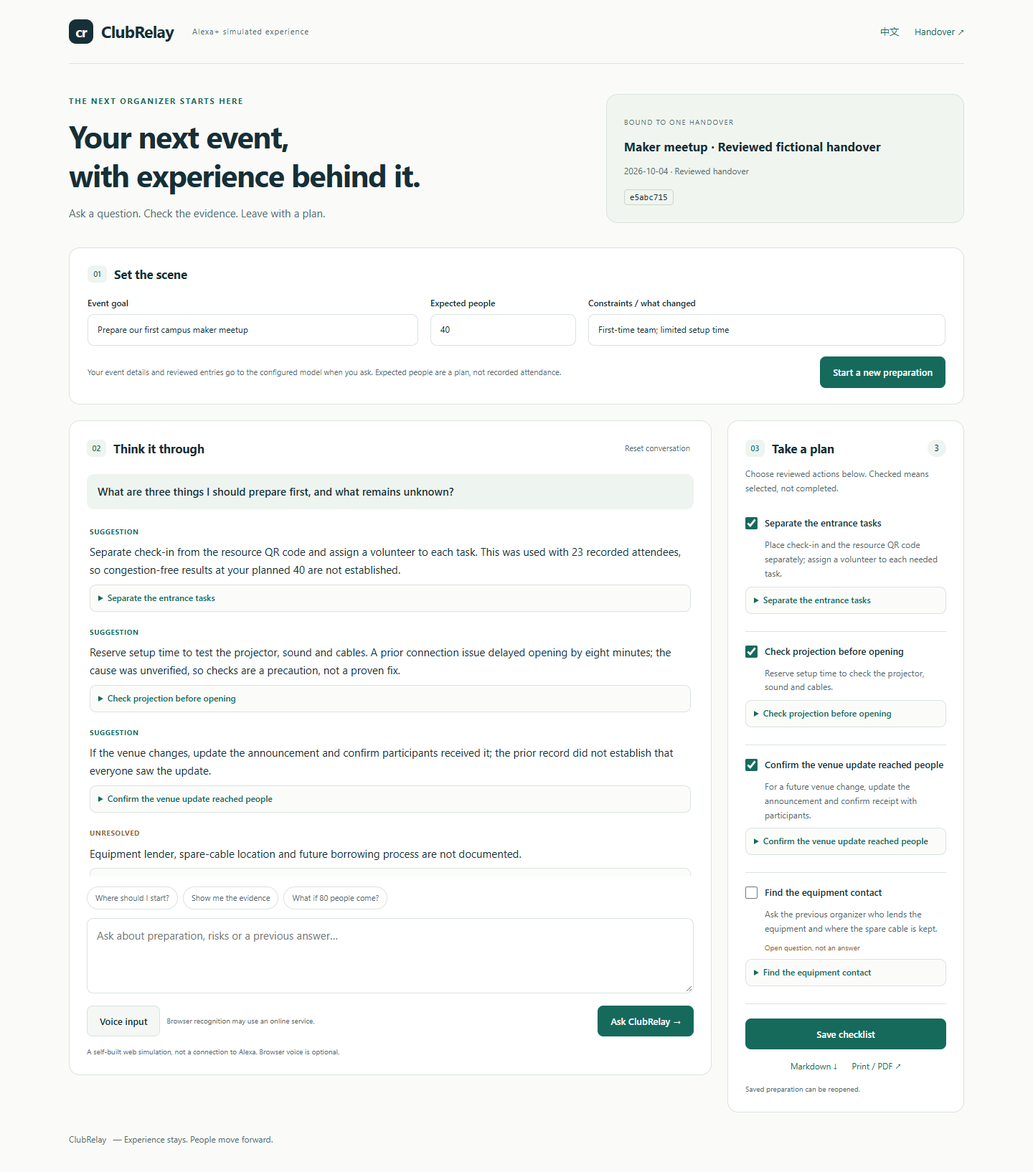
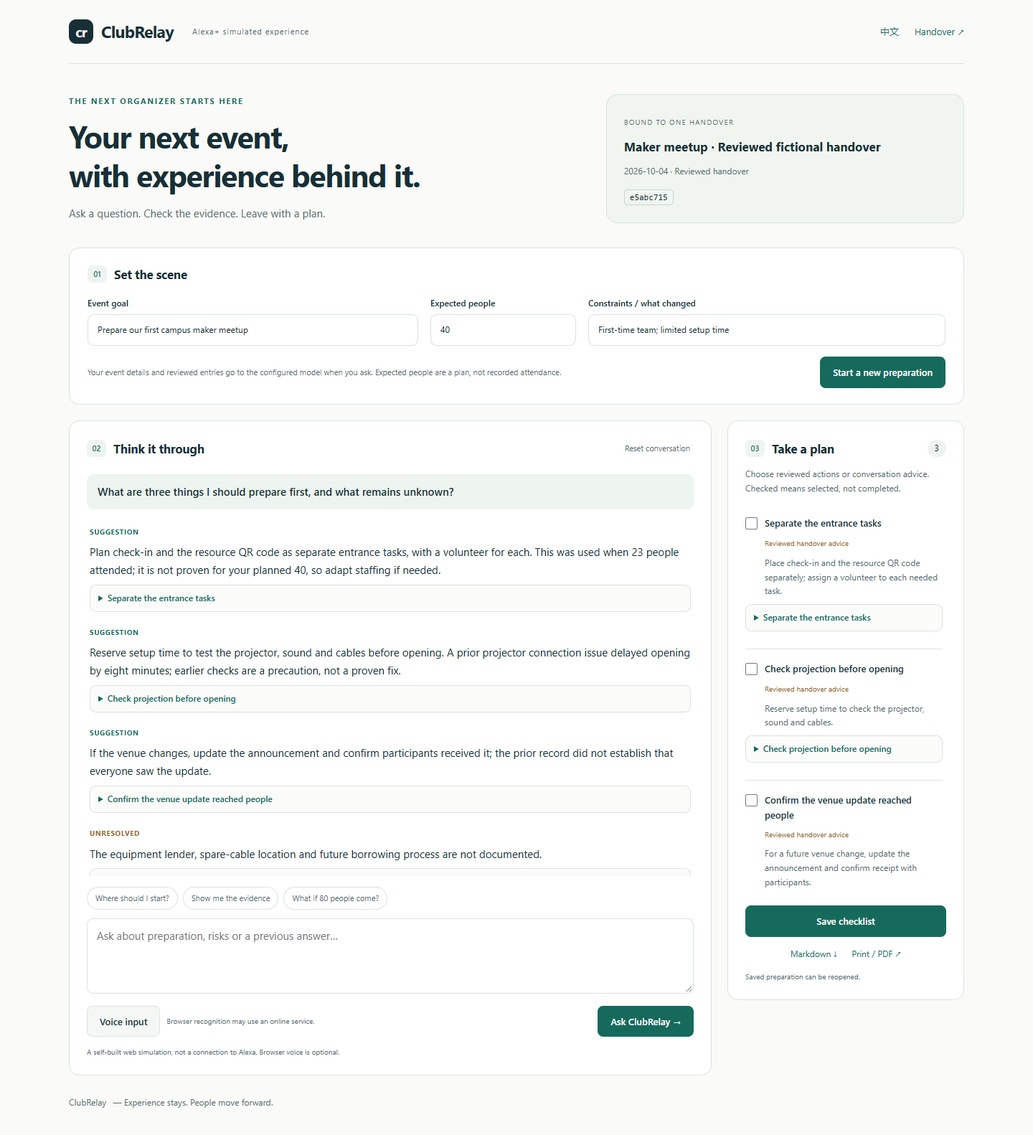
Persist generated advice in preparation checklists and refine long-list layout

diff --git a/operations/static/operations/briefing.css b/operations/static/operations/briefing.css
@@ -1,5 +1,7 @@
 /* 活动准备页独立样式；不覆盖运营台。 / Isolated preparation styles; do not override the operations workspace. */
 :root{--ink:#172f36;--muted:#536b70;--line:#d9e3df;--accent:#166a5c;--paper:#fafbf8;--card:#fff;--soft:#eef4ef;font-family:"Segoe UI","Microsoft YaHei",sans-serif;color:var(--ink);background:var(--paper);font-synthesis:none}*{box-sizing:border-box}body{margin:0;font-size:15px;line-height:1.65}button,input,textarea{font:inherit}button,a,input,textarea{touch-action:manipulation}button,a{transition:background .18s,color .18s,box-shadow .18s}button{cursor:pointer}a{color:var(--accent);text-decoration:none}a:hover{text-decoration:underline}button:disabled{opacity:.55;cursor:default}input,textarea{width:100%;border:1px solid var(--line);border-radius:9px;background:#fff;padding:11px 13px;color:var(--ink)}textarea{resize:vertical;min-height:105px}input:focus,textarea:focus{outline:2px solid #509c8b;outline-offset:2px}button:focus-visible,a:focus-visible,summary:focus-visible{outline:3px solid #66a996;outline-offset:4px}.shell{max-width:1344px;margin:auto;padding:0 48px}.masthead{display:flex;align-items:center;gap:26px;padding:27px 0;border-bottom:1px solid var(--line)}.brand{font:700 23px/1.2 "Segoe UI",sans-serif;letter-spacing:-.7px;color:var(--ink);display:flex;align-items:center;gap:11px}.brand-mark{font-size:19px;background:var(--ink);color:white;width:34px;height:34px;border-radius:10px;display:grid;place-items:center}.platform{font-size:11px;letter-spacing:.08em;color:var(--muted)}nav{margin-left:auto;display:flex;gap:22px;font-size:13px}.intro{display:grid;grid-template-columns:1.4fr 1fr;gap:50px;align-items:center;padding:42px 0 34px}.eyebrow{font-size:11px;letter-spacing:.16em;font-weight:700;color:var(--accent);margin:0 0 13px}h1{font-size:43px;line-height:1.25;font-weight:650;letter-spacing:-1.4px;margin:0}html[lang=zh-CN] h1{font-size:38px;letter-spacing:0;line-height:1.4}.lede{color:var(--muted);margin:15px 0 0}.version-card{border:1px solid var(--line);border-radius:16px;padding:24px;background:#f0f5ef}.version-card strong{display:block;font-size:17px;line-height:1.55;margin-top:10px}.small-label{font-size:10px;letter-spacing:.12em;color:var(--muted)}.version-card p{font-size:12px;color:var(--muted)}.version-id{font:12px Consolas,monospace;border:1px solid #c8d7cc;padding:3px 7px;border-radius:5px}.context-panel,.conversation-panel,.checklist-panel{background:var(--card);border:1px solid var(--line);border-radius:15px}.context-panel{padding:22px 25px;margin-bottom:22px}.context-panel>div,.panel-heading>div{display:flex;gap:10px;align-items:center}.step{font:600 11px/24px "Segoe UI",sans-serif;color:var(--accent);background:var(--soft);border-radius:7px;width:27px;text-align:center}h2{font-size:17px;margin:0;letter-spacing:-.25px}.context-fields{display:grid;grid-template-columns:1.25fr .55fr 1.35fr;gap:17px;margin-top:17px}label{display:block;font-size:12px;font-weight:600}label input{margin-top:6px;font-weight:400}.context-footer{display:flex;gap:20px;align-items:center;justify-content:space-between;margin-top:15px}.context-footer p{font-size:11px;line-height:1.7;color:var(--muted);margin:0;max-width:780px}.primary,.secondary{padding:10px 17px;border-radius:8px;font-weight:600;font-size:13px;border:1px solid transparent;white-space:nowrap}.primary{color:white;background:var(--accent)}.primary:hover{background:#105448}.secondary{background:#f4f7f4;border-color:var(--line);color:var(--ink)}.secondary:hover{background:#e6eeea}.text-button{font-size:11px;border:0;background:none;color:var(--muted);padding:5px}.workspace{display:grid;grid-template-columns:minmax(0,1fr) 330px;gap:22px;align-items:start}.conversation-panel{padding:24px}.panel-heading{display:flex;justify-content:space-between;align-items:center;gap:12px}.conversation{min-height:190px;max-height:560px;overflow:auto;margin:22px 0 15px;scrollbar-width:thin;scroll-padding:12px}.empty{border-left:3px solid #c5d9cd;padding:15px 21px;margin-top:30px;color:var(--muted)}.empty strong{color:var(--ink);display:block;font-size:18px;margin-bottom:6px}.turn{margin-bottom:27px;padding-bottom:21px;border-bottom:1px solid var(--line)}.question{font-weight:600;background:var(--soft);border-radius:10px;padding:12px 15px;margin:0 0 17px}.answer{padding:0 4px;margin:14px 0}.answer p{margin:6px 0;white-space:pre-wrap;overflow-wrap:anywhere}.kind{font-size:10px;font-weight:700;letter-spacing:.06em;color:var(--accent)}.gap .kind{color:#936428}.evidence{margin:8px 0;border:1px solid var(--line);border-radius:9px;padding:8px 11px;font-size:12px;background:#fbfcfa}.evidence summary{cursor:pointer;color:var(--accent);font-weight:600}.evidence p{color:var(--muted);font-size:12px}.evidence blockquote{margin:9px 0;border-left:2px solid #9cbcab;padding-left:11px;white-space:pre-wrap;overflow-wrap:anywhere}.unknowns{padding:12px 16px;background:#fbf6eb;border-radius:9px;font-size:12px}.unknowns ul{padding-left:18px;margin:6px 0}.prompts{display:flex;flex-wrap:wrap;gap:7px;margin-bottom:12px}.prompts button{border:1px solid var(--line);background:white;font-size:11px;border-radius:30px;padding:6px 11px;color:var(--muted)}.prompts button:hover{background:var(--soft)}.composer-tools{display:flex;align-items:center;gap:9px;margin-top:10px}.composer-tools .primary{margin-left:auto}.composer-tools span{font-size:10px}.muted{font-size:12px;color:var(--muted)}.fineprint{font-size:10px;line-height:1.6;color:var(--muted);margin:13px 0 0}.checklist-panel{padding:24px}.count{font-variant-numeric:tabular-nums;background:var(--soft);border-radius:20px;padding:2px 10px;font-size:12px}.check-item{padding:16px 0;border-bottom:1px solid var(--line)}.check-item>label{display:flex;gap:10px;align-items:flex-start;cursor:pointer;font-size:13px}.check-item input{width:17px;height:17px;flex-shrink:0;margin:3px 0;accent-color:var(--accent)}.check-item p{font-size:12px;color:var(--muted);margin:9px 0 0 27px;white-space:pre-wrap;overflow-wrap:anywhere}.check-item small{display:block;font-size:10px;color:#936428;margin:8px 0 0 27px}.wide{width:100%;margin-top:20px}.exports{display:flex;gap:20px;justify-content:center;margin-top:14px;font-size:12px}.exports [aria-disabled=true]{color:var(--muted);pointer-events:none}.notice{border:1px solid #ccab69;background:#fff9ea;padding:12px 16px;border-radius:9px;font-size:13px;margin-bottom:20px;overflow-wrap:anywhere}[hidden]{display:none!important}footer{padding:28px 0 35px;font-size:12px;color:var(--muted)}footer span{margin-left:6px}.sr-only{position:absolute;width:1px;height:1px;overflow:hidden;clip:rect(0,0,0,0)}
+/* 长对话的建议在清单内滚动，保存操作保持可见。 / Scroll long advice lists within the panel to keep save controls visible. */
+#checklist{max-height:540px;overflow:auto;scrollbar-width:thin;scroll-padding:12px;padding-right:5px}
 /* SpotlightCard 坐标算法的原生适配，来源及许可见第三方声明。 / Native SpotlightCard coordinate adaptation; see third-party notice. */
 .spotlight{position:relative;overflow:hidden;--mouse-x:50%;--mouse-y:50%}.spotlight:before{content:"";position:absolute;inset:0;pointer-events:none;background:radial-gradient(circle at var(--mouse-x) var(--mouse-y),rgba(36,131,101,.16),transparent 80%);opacity:0;transition:opacity .3s}.spotlight:hover:before,.spotlight:focus-within:before{opacity:.65}.spotlight>*{position:relative}
 @media(max-width:1000px){.shell{padding:0 25px}.workspace{grid-template-columns:minmax(0,1fr) 285px}.intro{gap:25px}h1{font-size:35px}.context-fields{grid-template-columns:1fr 120px}.context-fields label:last-child{grid-column:1/-1}.platform{display:none}}

diff --git a/templates/ops/briefing.html b/templates/ops/briefing.html
@@ -8,5 +8,5 @@
 <div id="conversation" class="conversation" aria-live="polite"></div>
 <div class="prompts"><button type="button" data-prompt="{% if english %}What are three things I should prepare first, and what remains unknown?{% else %}我最应该先准备哪三件事？还有哪些信息不知道？{% endif %}">{% if english %}Where should I start?{% else %}先准备哪三件事？{% endif %}</button><button type="button" data-prompt="{% if english %}Why do you suggest that? Show the supporting evidence.{% else %}为什么这么建议？依据在哪里？{% endif %}">{% if english %}Show me the evidence{% else %}这些建议的依据呢？{% endif %}</button><button type="button" data-prompt="{% if english %}If we expect 80 people this time, what changes and what cannot be inferred?{% else %}如果这次预计80人，哪些做法需要调整？哪些不能直接推断？{% endif %}">{% if english %}What if 80 people come?{% else %}如果预计80人呢？{% endif %}</button></div>
 <form id="question-form"><label class="sr-only" for="question">{% if english %}Your question{% else %}你的问题{% endif %}</label><textarea id="question" rows="3" maxlength="1000" required placeholder="{% if english %}Ask about preparation, risks or a previous answer…{% else %}问准备做法、风险，或继续追问上一条回答……{% endif %}"></textarea><div class="composer-tools"><button type="button" id="microphone" class="secondary">{% if english %}Voice input{% else %}语音输入{% endif %}</button><span id="speech-status" class="muted" role="status"></span><button type="submit" id="send" class="primary">{% if english %}Ask ClubRelay{% else %}问问 ClubRelay{% endif %} →</button></div></form><p class="fineprint">{% if english %}A self-built web simulation, not a connection to Alexa. Browser voice is optional.{% else %}自建网页模拟体验，尚未接入真实 Alexa。语音由浏览器提供。{% endif %}</p></section>
-<aside class="checklist-panel"><div class="panel-heading"><div><span class="step">03</span><h2>{% if english %}Take a plan{% else %}带走准备清单{% endif %}</h2></div><span id="selection-count" class="count">0</span></div><p class="muted">{% if english %}Choose reviewed actions below. Checked means selected, not completed.{% else %}从已审阅建议中选择。勾选表示纳入准备，不代表任务完成。{% endif %}</p><div id="checklist"></div><button type="button" class="primary wide" id="save-selection">{% if english %}Save checklist{% else %}保存清单{% endif %}</button><div class="exports"><a id="export-md" aria-disabled="true">Markdown ↓</a><a id="export-print" aria-disabled="true" target="_blank" rel="noopener">{% if english %}Print / PDF ↗{% else %}打印 / PDF ↗{% endif %}</a></div><p id="saved-status" class="fineprint" role="status"></p></aside></div>
+<aside class="checklist-panel"><div class="panel-heading"><div><span class="step">03</span><h2>{% if english %}Take a plan{% else %}带走准备清单{% endif %}</h2></div><span id="selection-count" class="count">0</span></div><p class="muted">{% if english %}Choose reviewed actions or conversation advice. Checked means selected, not completed.{% else %}选择交接建议或本次对话建议。勾选表示纳入准备，不代表任务完成。{% endif %}</p><div id="checklist"></div><button type="button" class="primary wide" id="save-selection">{% if english %}Save checklist{% else %}保存清单{% endif %}</button><div class="exports"><a id="export-md" aria-disabled="true">Markdown ↓</a><a id="export-print" aria-disabled="true" target="_blank" rel="noopener">{% if english %}Print / PDF ↗{% else %}打印 / PDF ↗{% endif %}</a></div><p id="saved-status" class="fineprint" role="status"></p></aside></div>
 </main><footer>ClubRelay <span>— {% if english %}Experience stays. People move forward.{% else %}经验留下，下一任继续。{% endif %}</span></footer></div>{{ state|json_script:"briefing-state" }}<script src="{% static 'operations/briefing.js' %}" defer></script></body></html>

diff --git a/operations/static/operations/briefing.js b/operations/static/operations/briefing.js
@@ -83,10 +83,10 @@
     }
     conversation.scrollTop = conversation.scrollHeight;
     const checklist=$('checklist'); checklist.replaceChildren();
-    for (const entry of state.entries) {
+    for (const entry of state.options) {
       const card=node('div','check-item'), label=node('label'), checkbox=node('input'); checkbox.type='checkbox'; checkbox.value=entry.id; checkbox.checked=Boolean(session?.selected.includes(entry.id));
       checkbox.addEventListener('change',()=>{dirty=true; updateCount(); $('saved-status').textContent=t('有未保存的选择。','Unsaved selection.');buttons();});
-      label.append(checkbox,node('span','',entry.title)); card.append(label,node('p','',entry.suggestion));
+      label.append(checkbox,node('span','',entry.title)); card.append(label,node('small','',entry.origin==='conversation'?t('本次对话建议','Advice from this conversation'):t('已审核交接建议','Reviewed handover advice')),node('p','',entry.suggestion));
       if (entry.section==='question') card.append(node('small','',t('待确认，尚无答案','Open question, not an answer')));
       card.append(evidence(entry)); checklist.append(card);
     }

diff --git a/operations/briefings.py b/operations/briefings.py
@@ -130,6 +130,30 @@ def ask(user, pack_id, session_id, question, request_id, revision):
     return session
 
 
+def checklist_options(entries, session):
+    """从已保存回答重建建议，客户端只能提交标识。 / Rebuild saved suggestions; clients may submit identifiers only."""
+    options = [{**entry, "origin": "handover"} for entry in entries]
+    if not session or not entries:
+        return options
+    by_id = {entry["id"]: entry for entry in entries}
+    en = session.context["language"] == "en"
+    for turn in session.turns:
+        for index, answer in enumerate((turn.get("response") or {}).get("answers", [])):
+            if answer["kind"] != "suggestion" or not answer["entry_ids"] or any(key not in by_id for key in answer["entry_ids"]):
+                continue
+            evidence = []
+            for key in answer["entry_ids"]:
+                for ref in by_id[key]["evidence"]:
+                    if ref not in evidence:
+                        evidence.append(ref)
+            options.append({"id": f"answer:{turn['request_id']}:{index}", "origin": "conversation", "section": "practice",
+                            "title": answer["text"][:90], "suggestion": answer["text"],
+                            "record": "Generated advice, not a recorded fact." if en else "本次生成的建议，不是材料事实。",
+                            "conditions": "Check applicability to the saved event context." if en else "执行前核对是否适用于已保存的活动条件。",
+                            "evidence": evidence, "has_evidence": bool(evidence)})
+    return options
+
+
 def update(user, pack_id, session_id, revision, selected=None, reset=False):
     with CONFIG_LOCK, transaction.atomic():
         session = owned(user, pack_id, session_id)
@@ -137,9 +161,9 @@ def update(user, pack_id, session_id, revision, selected=None, reset=False):
         if reset:
             _claim(session, revision, turns=[], selected=[], pending=None, pending_at=None)
         else:
-            valid_ids = {e["id"] for e in entries}
+            valid_ids = {e["id"] for e in checklist_options(entries, session)}
             if not isinstance(selected, list) or len(selected) > len(valid_ids) or any(not isinstance(v, str) or v not in valid_ids for v in selected) or len(selected) != len(set(selected)):
-                raise ValidationError("清单条目不属于此交接版本。 / Checklist item is outside this handover.")
+                raise ValidationError("清单条目不属于此次准备。 / Checklist item is outside this preparation.")
             if session.pending:
                 raise Conflict("请等待当前回答完成再保存。 / Wait for the current answer before saving.")
             _claim(session, revision, selected=selected)
@@ -153,7 +177,7 @@ def public_state(user, pack_id, session):
     except ValidationError as exc:
         pack, entries = HandoffPack.objects.get(pk=pack_id), []
         error = " / ".join(exc.messages)
-    state = {"pack_id": str(pack.pk), "title": pack.title, "entries": entries, "error": error, "session": None}
+    state = {"pack_id": str(pack.pk), "title": pack.title, "entries": entries, "options": checklist_options(entries, session), "error": error, "session": None}
     if session:
         state["session"] = {"id": str(session.pk), "context": session.context, "turns": session.turns, "selected": session.selected, "revision": session.revision, "pending": bool(session.pending)}
     return state
@@ -165,7 +189,7 @@ def export_context(user, pack_id, session_id):
     if not session.selected:
         raise ValidationError("请先选择并保存准备事项。 / Select and save preparation items first.")
     gaps = list(dict.fromkeys([e["conditions"] or e["title"] for e in entries if e["section"] == "question"] + [g for t in session.turns if t.get("response") for g in t["response"]["unknowns"]]))
-    return {"context": session.context, "version": str(pack.pk), "entries": [e for e in entries if e["id"] in session.selected], "gaps": gaps, "english": session.context["language"] == "en"}
+    return {"context": session.context, "version": str(pack.pk), "entries": [e for e in checklist_options(entries, session) if e["id"] in session.selected], "gaps": gaps, "english": session.context["language"] == "en"}
 
 
 def export(user, pack_id, session_id):

diff --git a/operations/test_briefings.py b/operations/test_briefings.py
@@ -193,3 +193,28 @@ class BriefingTests(TestCase):
     def test_empty_checklist_cannot_be_exported(self):
         session=self.session()
         with self.assertRaises(ValidationError):briefings.export(self.manager,self.pack.pk,session.pk)
+
+    def test_generated_suggestion_survives_reload_and_both_exports(self):
+        session=self.session()
+        with patch("operations.briefings.analyze_sources",return_value=self.answer()):session=self.ask(session)
+        state=briefings.public_state(self.manager,self.pack.pk,session)
+        advice=next(e for e in state["options"] if e["origin"]=="conversation")
+        session=briefings.update(self.manager,self.pack.pk,session.pk,session.revision,selected=[advice["id"]])
+        session.refresh_from_db()
+        self.assertEqual(session.selected,[advice["id"]])
+        exported=briefings.export(self.manager,self.pack.pk,session.pk)
+        self.assertIn("applicability still needs review",exported)
+        self.assertIn(advice["evidence"][0]["quote"],exported)
+        printed=self.client.get(reverse("briefing_export",args=[self.pack.pk,session.pk,"print"]))
+        self.assertContains(printed,self.answer()["answers"][0]["text"])
+        self.a.text+=" Changed";self.a.save()
+        with self.assertRaises(ValidationError):briefings.export(self.manager,self.pack.pk,session.pk)
+
+    def test_foreign_or_reset_conversation_suggestion_cannot_be_selected(self):
+        session=self.session()
+        with patch("operations.briefings.analyze_sources",return_value=self.answer()):session=self.ask(session)
+        advice=briefings.checklist_options(briefings.guard(self.manager,self.pack.pk)[3],session)[-1]
+        other=briefings.create(self.manager,self.pack.pk,session.context,uuid.uuid4())
+        with self.assertRaises(ValidationError):briefings.update(self.manager,self.pack.pk,other.pk,other.revision,selected=[advice["id"]])
+        session=briefings.update(self.manager,self.pack.pk,session.pk,session.revision,reset=True)
+        with self.assertRaises(ValidationError):briefings.update(self.manager,self.pack.pk,session.pk,session.revision,selected=[advice["id"]])

diff --git a/docs/sample-preparation.md b/docs/sample-preparation.md
@@ -9,11 +9,11 @@ Handover version: e5abc715-cdf8-5514-983b-c88cd1a31672
 
 Selected for preparation, not completed. / 纳入准备，不代表任务完成。
 
-## Separate the entrance tasks
+## Plan check\-in and the resource QR code as separate entrance tasks, with a volunteer for ea
 
-Place check\-in and the resource QR code separately; assign a volunteer to each needed task\.
+Plan check\-in and the resource QR code as separate entrance tasks, with a volunteer for each\. This was used when 23 people attended; it is not proven for your planned 40, so adapt staffing if needed\.
 
-Conditions / 适用条件：No obvious congestion was recorded for 23 attendees\. The same setup is not proven for 80\.
+Conditions / 适用条件：Check applicability to the saved event context\.
 
 Source / 来源：01\-plan\.md
 > The plan expected 40 attendees in room A101\.
@@ -23,22 +23,22 @@ Source / 来源：03\-retrospective\.md
 
 Source / 来源：03\-retrospective\.md
 > Volunteers separated check\-in from the resource QR code; no obvious entrance congestion was recorded\.
-## Check projection before opening
+## Reserve setup time to test the projector, sound and cables before opening\. A prior project
 
-Reserve setup time to check the projector, sound and cables\.
+Reserve setup time to test the projector, sound and cables before opening\. A prior projector connection issue delayed opening by eight minutes; earlier checks are a precaution, not a proven fix\.
 
-Conditions / 适用条件：The fault cause was not verified; checking earlier is a suggestion, not a proven fix\.
+Conditions / 适用条件：Check applicability to the saved event context\.
 
 Source / 来源：03\-retrospective\.md
 > A projector connection issue delayed the opening by eight minutes\.
 
 Source / 来源：03\-retrospective\.md
 > The connection worked after a cable was replaced, but the technical cause was not verified\.
-## Confirm the venue update reached people
+## If the venue changes, update the announcement and confirm participants received it; the pr
 
-For a future venue change, update the announcement and confirm receipt with participants\.
+If the venue changes, update the announcement and confirm participants received it; the prior record did not establish that everyone saw the update\.
 
-Conditions / 适用条件：The existing record does not prove everyone saw the notice; do not send an expired event reminder\.
+Conditions / 适用条件：Check applicability to the saved event context\.
 
 Source / 来源：02\-notice\.md
 > The venue changed from A101 to B203; the planned start time did not change\.
@@ -49,8 +49,8 @@ Source / 来源：02\-notice\.md
 ## Open questions / 未解决事项
 
 - The lender, spare\-cable location and future borrowing process remain unknown\.
-- Who can lend equipment, where is the spare cable, and what is the borrowing process?
-- Will your planned attendance be 40, and will the entrance setup suit that turnout?
-- Who lends the equipment remains undocumented\.
+- Who can lend the equipment, where is the spare cable, and what is the borrowing process?
+- Will the venue change, and if so, how will receipt of the update be confirmed?
+- Who lends the equipment?
 
 Snapshot of this preparation; verify applicability before use. / 本次准备快照，执行前请核对适用条件。

diff --git a/docs/VALIDATION.md b/docs/VALIDATION.md
@@ -2,15 +2,15 @@
 
 ## Verified
 
-- Backend: 323 tests passed for `operations + collector` in the clean sanitized distribution, including 20 preparation tests. Fresh schema migration, fictional seeding and Django system checks passed using the existing verified Python dependency environment; a clean-machine dependency installation is not claimed.
-- Browser: 27 preparation checks passed in isolated Windows Chrome; 16 existing ClubRelay handover checks passed.
-- Live model: one connection preflight; four English preparation turns; three further genuine model requests during the new recording. Only fictional project data was sent through the pre-existing authorized model connection.
+- Backend: 325 tests passed for `operations + collector` in the sanitized distribution, including 22 preparation tests. Fresh schema migration, fictional seeding and Django system checks passed using the existing verified Python dependency environment; a clean-machine dependency installation is not claimed. The final checklist layout adjustment also passed the browser checks below.
+- Browser: 29 preparation checks passed in isolated Windows Chrome; 16 existing ClubRelay handover checks passed.
+- Live model: one connection preflight; four initial English preparation turns; three genuine requests in the final recording. Earlier technical recordings also exercised live requests. Only fictional project data was sent through the pre-existing authorized model connection.
 - Live response review: kept 40 planned vs 23 recorded attendance separate; preserved the unverified projector cause and unknown equipment lender; did not assume evidence from 23 attendees establishes suitability for 80.
-- Browser scenarios: context creation makes no model call; history survives reload; evidence expands; selected actions persist; dirty selections do not export; failed requests retain input and saved selections; stale sources block generation/export while retaining history.
+- Browser scenarios: context creation makes no model call; history survives reload; evidence expands; selected actions persist, including advice generated in the conversation; dirty selections do not export; failed requests retain input and saved selections; stale sources block generation/export while retaining history.
 - Security cases: CSRF, manager access, owner isolation, unknown reference IDs, references to evidence-free gaps, stale revisions, duplicate requests, reset during a request, revoked consent and model/source changes.
 - Widths: 320, 390 and 1440 CSS pixels without page overflow. Reduced-motion fallback and the mounted SpotlightCard pointer behavior were checked.
 - Rendered fonts: Chinese heading Microsoft YaHei Bold; English brand Segoe UI Bold; numeric count Segoe UI. A missing-primary-font fallback was also inspected.
-- Video: new English-captioned technical recording, approximately 1 minute 43 seconds; no narration audio. Three actual model requests occur in the recording. It is not a replay of fixed mock responses.
+- Video: new English-captioned technical recording, approximately 1 minute 52 seconds; no narration audio. Three actual model requests occur in the final recording. It is not a replay of fixed mock responses.
 
 ## Explicitly not verified
 

diff --git a/docs/CHANGES.md b/docs/CHANGES.md
@@ -5,8 +5,8 @@
 | Campus application | Django/SQLite, manager-only workspace, files, consent and compatible-model connection | Kept existing framework and safeguards |
 | ClubRelay handover | October 2–3: selected materials, human review, frozen versions, exact quotes, Markdown/print export | New preparation entry point on a confirmed handover |
 | Conversation | No dedicated multi-turn preparation assistant | Event goal, expected attendance, constraints, recent context, structured answers, server-resolved evidence |
-| Preparation output | Handover package only | Saved owner-scoped selection, preparation checklist, unresolved items, Markdown and print/PDF |
+| Preparation output | Handover package only | Saved owner-scoped selection of reviewed or newly generated advice, preparation checklist, unresolved items, Markdown and print/PDF |
 | Voice and language | No dedicated preparation page | English/Chinese page, browser recognition with fallback, local read-aloud |
-| Evidence | Previous technical recording | New regression tests, four initial live questions, new recording with three live questions |
+| Evidence | Previous technical recording | New regression tests, four initial live questions, final recording with three live questions; an earlier technical recording also used three live questions |
 
 Development dates are actual dates, not backdated competition claims. The public repository is a sanitized distribution of the existing source, not proof that the whole application was newly created during this hackathon. The demo handover is a manually authored fictional fixture; live conversations are separately identified.

diff --git a/README.md b/README.md
@@ -10,7 +10,7 @@ Built for the **Alexa+ simulated-experience path** of the Amazon Developer Hacka
 
 - One reviewed handover, one organizer's event context, multi-turn follow-up questions.
 - Short answers labelled as recorded facts, suggestions or unresolved gaps; expandable original evidence.
-- A saved preparation checklist with Markdown and print/PDF export. Selection is not task completion.
+- A saved preparation checklist containing selected reviewed advice or newly generated conversation suggestions, with Markdown and print/PDF export. Selection is not task completion.
 - Persistent owner-scoped preparation, source-change checks, consent checks and duplicate-request protection.
 - English and Chinese interface; optional browser speech recognition and local-system read-aloud. Text remains available when voice fails.
 
